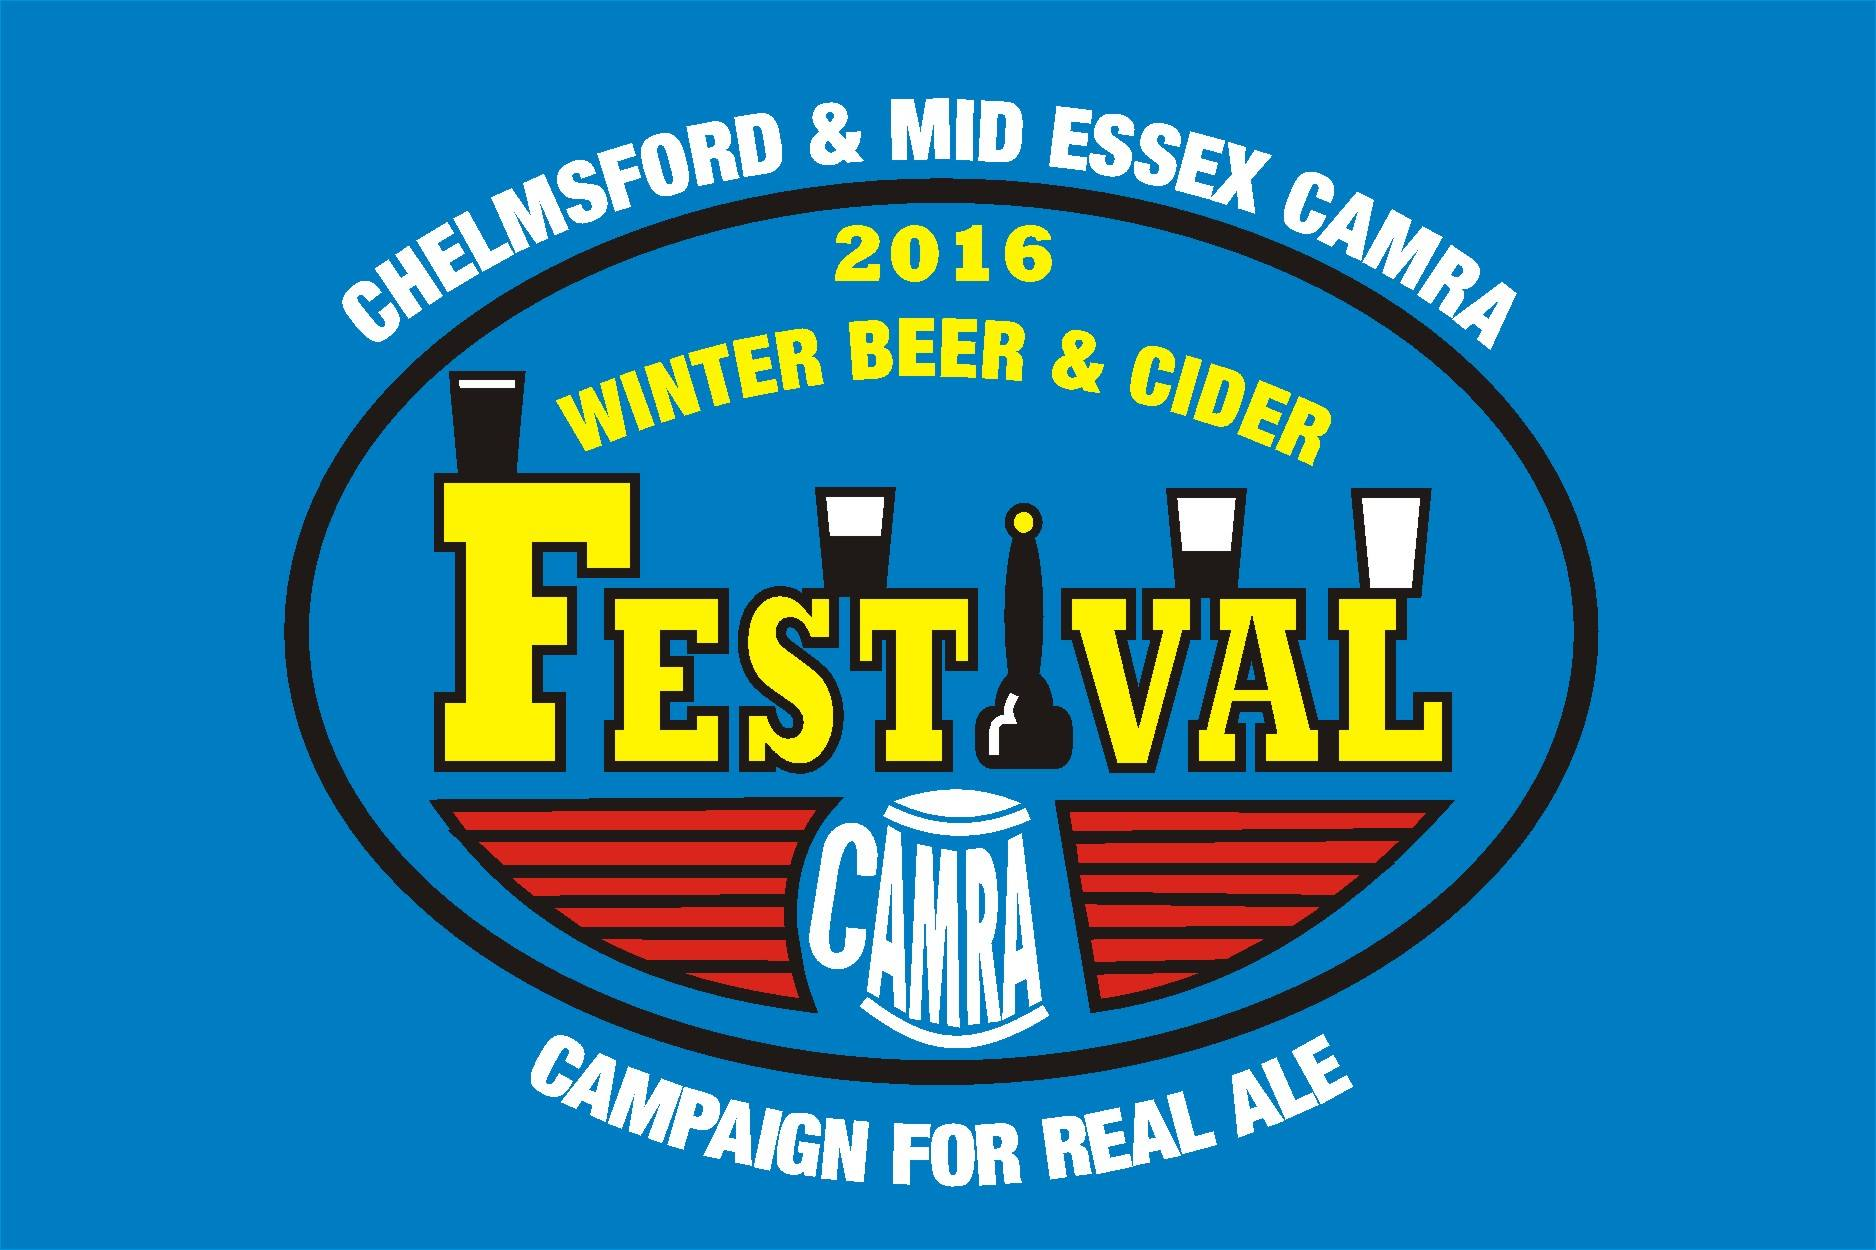
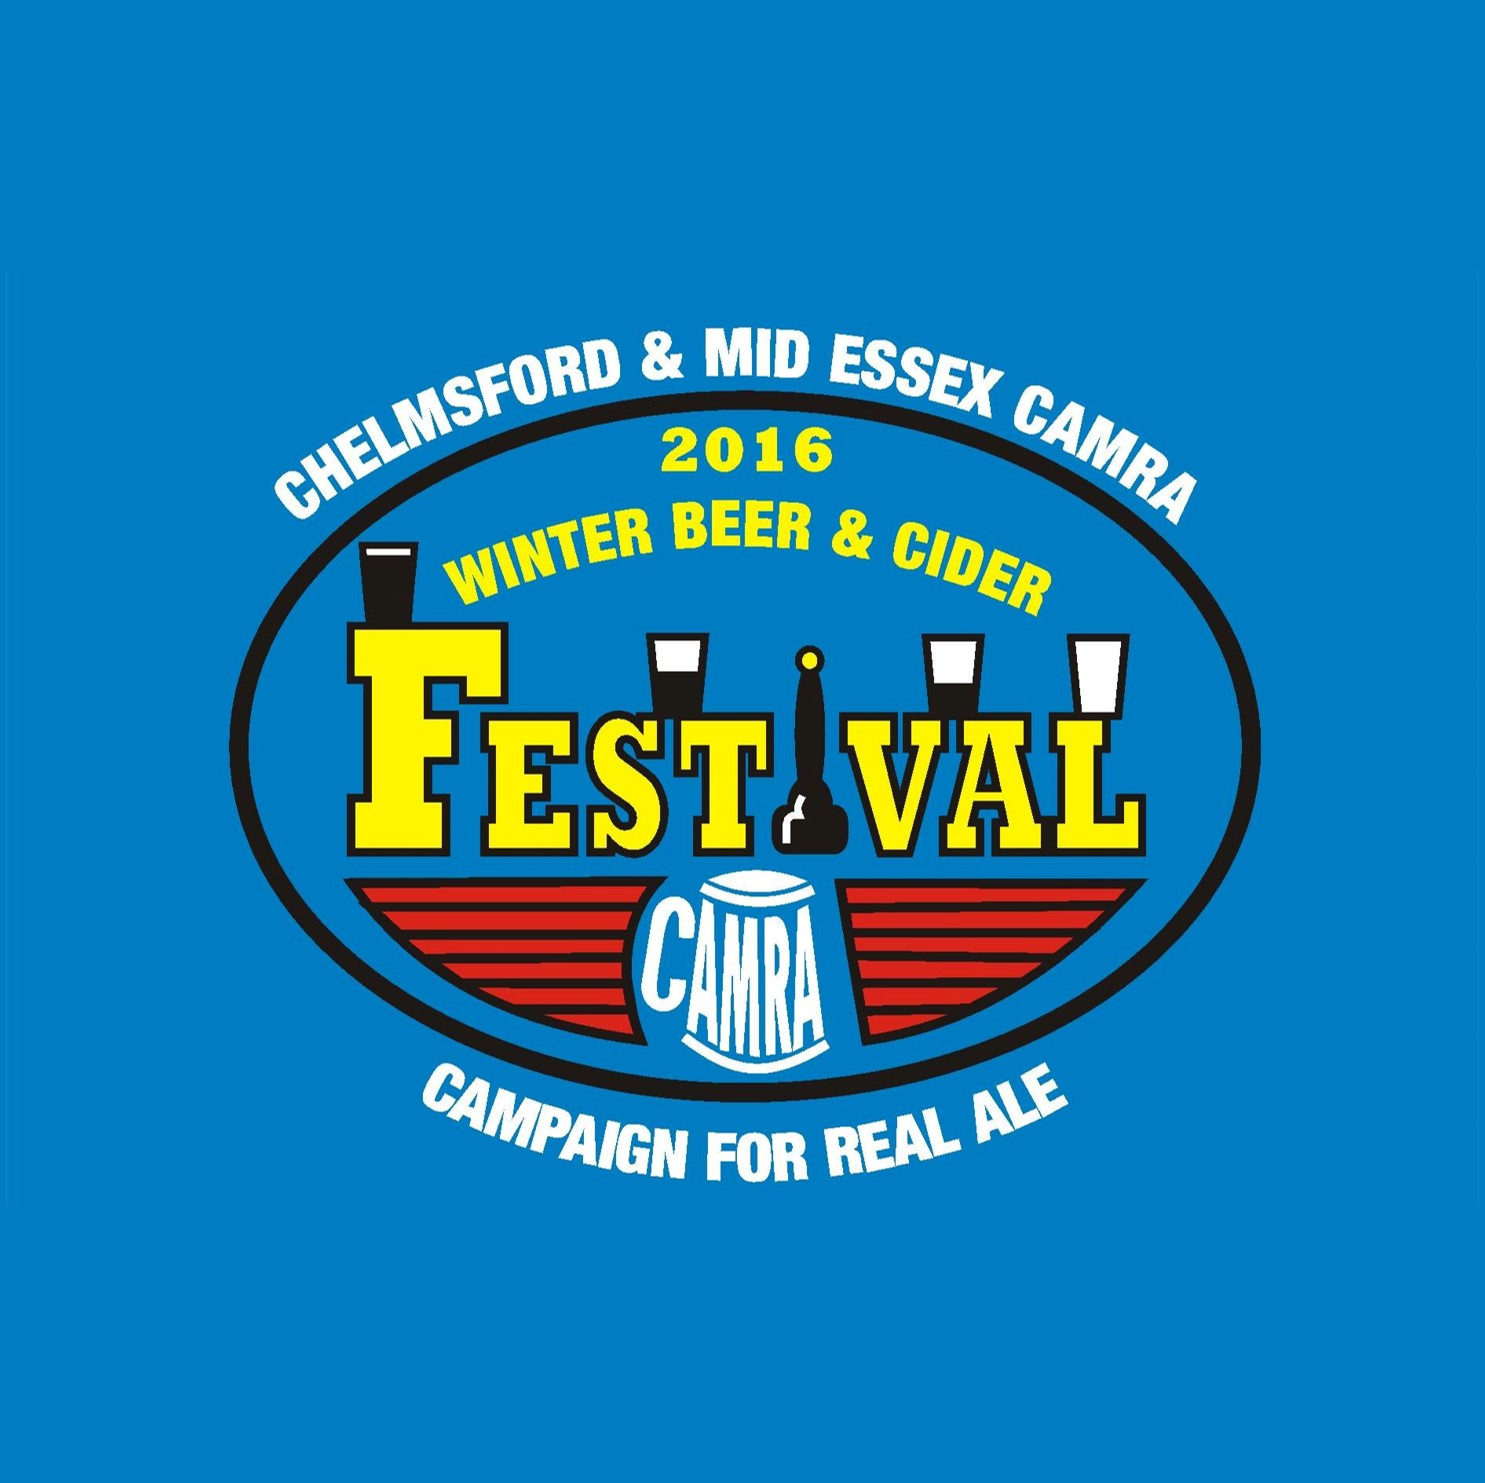
Archive updates
Frontend updated on Archive - logos adjusted so they are all the same size.

Minor tweaks to homepage.

Changed region(s): [[0.1239, 0.0624, 0.8673, 0.9672], [0.5266, 0.4056, 0.5576, 0.468]]

diff --git a/home.html b/home.html
@@ -14,7 +14,7 @@
   <meta property="og:url" content="https://cbcf.info/home">
 
   <!-- Font Awesome -->
-	<link rel="stylesheet" href="https://pro.fontawesome.com/releases/v5.5.0/css/all.css" integrity="sha384-j8y0ITrvFafF4EkV1mPW0BKm6dp3c+J9Fky22Man50Ofxo2wNe5pT1oZejDH9/Dt" crossorigin="anonymous">
+  <link rel="stylesheet" href="https://pro.fontawesome.com/releases/v5.5.0/css/all.css" integrity="sha384-j8y0ITrvFafF4EkV1mPW0BKm6dp3c+J9Fky22Man50Ofxo2wNe5pT1oZejDH9/Dt" crossorigin="anonymous">
 
   <!-- Bootstrap core CSS -->
   <link href="./css/bootstrap.css" rel="stylesheet">
@@ -177,7 +177,8 @@
             <hr>
             <li class="nav-item">
               <a class="nav-link hoverable d-none d-lg-block" href="//www.facebook.com/chelmsfordbeer" rel="nofollow"><i class="fab fa-facebook-square" aria-hidden="true"></i><span class="sr-only">Chelmsford Beer and Cider Festivals Facebook page</span></a>
-              <a class="nav-link hoverable d-block d-lg-none" href="//www.facebook.com/chelmsfordbeer" rel="nofollow"><i class="fab fa-facebook-square fa-2x" aria-hidden="true"></i><span class="sr-only">Chelmsford Beer and Cider Festivals Facebook page</span></a>
+              <a class="nav-link hoverable d-block d-lg-none" href="//www.facebook.com/chelmsfordbeer" rel="nofollow"><i class="fab fa-facebook-square fa-2x" aria-hidden="true"></i><span class="sr-only">Chelmsford Beer and Cider Festivals Facebook
+                  page</span></a>
             </li>
             <li class="nav-item">
               <a class="nav-link hoverable d-none d-lg-block" href="//twitter.com/chelmsfordbeer" rel="nofollow"><i class="fab fa-twitter" aria-hidden="true"></i><span class="sr-only">Chelmsford Beer and Cider Festivals Twitter page</span></a>
@@ -188,12 +189,16 @@
               <a class="nav-link hoverable d-block d-lg-none" href="//www.instagram.com/chelmsfordbeer" rel="nofollow"><i class="fab fa-instagram fa-2x" aria-hidden="true"></i><span class="sr-only">Chelmsford Beer and Cider Festivals Facebook page</span></a>
             </li>
             <li class="nav-item">
-              <a class="nav-link hoverable d-none d-lg-block" href="//www.snapchat.com/add/chelmsfordbeer" rel="nofollow"><i class="fab fa-snapchat-ghost" aria-hidden="true"></i><span class="sr-only">Chelmsford Beer and Cider Festivals Snapchat account</span></a>
-              <a class="nav-link hoverable d-block d-lg-none" href="//www.snapchat.com/add/chelmsfordbeer" rel="nofollow"><i class="fab fa-snapchat-ghost fa-2x" aria-hidden="true"></i><span class="sr-only">Chelmsford Beer and Cider Festivals Snapchat account</span></a>
+              <a class="nav-link hoverable d-none d-lg-block" href="//www.snapchat.com/add/chelmsfordbeer" rel="nofollow"><i class="fab fa-snapchat-ghost" aria-hidden="true"></i><span class="sr-only">Chelmsford Beer and Cider Festivals Snapchat
+                  account</span></a>
+              <a class="nav-link hoverable d-block d-lg-none" href="//www.snapchat.com/add/chelmsfordbeer" rel="nofollow"><i class="fab fa-snapchat-ghost fa-2x" aria-hidden="true"></i><span class="sr-only">Chelmsford Beer and Cider Festivals
+                  Snapchat account</span></a>
             </li>
             <li class="nav-item">
-              <a class="nav-link hoverable d-none d-lg-block" href="//www.youtube.com/channel/UCzacYKZgrWy-5LvzYar7eMw" rel="nofollow"><i class="fab fa-youtube" aria-hidden="true"></i><span class="sr-only">Chelmsford Beer and Cider Festivals YouTube channel</span></a>
-              <a class="nav-link hoverable d-block d-lg-none" href="//www.youtube.com/channel/UCzacYKZgrWy-5LvzYar7eMw" rel="nofollow"><i class="fab fa-youtube fa-2x" aria-hidden="true"></i><span class="sr-only">Chelmsford Beer and Cider Festivals YouTube channel</span></a>
+              <a class="nav-link hoverable d-none d-lg-block" href="//www.youtube.com/channel/UCzacYKZgrWy-5LvzYar7eMw" rel="nofollow"><i class="fab fa-youtube" aria-hidden="true"></i><span class="sr-only">Chelmsford Beer and Cider Festivals YouTube
+                  channel</span></a>
+              <a class="nav-link hoverable d-block d-lg-none" href="//www.youtube.com/channel/UCzacYKZgrWy-5LvzYar7eMw" rel="nofollow"><i class="fab fa-youtube fa-2x" aria-hidden="true"></i><span class="sr-only">Chelmsford Beer and Cider Festivals
+                  YouTube channel</span></a>
             </li>
           </ul>
         </div>
@@ -217,11 +222,11 @@
             </li>
             <li class="cbcf-normal">
               <h2 class="mt-4 mb-5 wow bounceIn font-bold" data-wow-delay="0.5s">Chelmsford Winter Beer &amp; Cider Festival 2019</h2>
-              <h4 class="mt-4 mb-5 wow fadeInUp" data-wow-delay="0.8s">20th to 23rd Feburary 2019</h4>
+              <h4 class="mt-4 mb-5 wow fadeInUp" data-wow-delay="0.8s">20th to 23rd February 2019</h4>
             </li>
             <li class="cbcf-sm">
               <h4 class="mt-4 mb-5 wow fadeInDown font-bold" data-wow-delay="0.5s">Chelmsford Winter Beer &amp; Cider Festival 2019</h4>
-              <h6 class="mt-4 mb-5 wow fadeInUp" data-wow-delay="0.8s">20th to 23rd Feburary 2019</h6>
+              <h6 class="mt-4 mb-5 wow fadeInUp" data-wow-delay="0.8s">20th to 23rd February 2019</h6>
             </li>
             <li>
               <a href="#details" class="btn btn-indigo btn-lg wow fadeInLeft hoverable" data-wow-delay="1.2s"><i class="far fa-arrow-circle-down" aria-hidden="true"></i>&nbsp; More details</a>
@@ -262,44 +267,35 @@
           <!--Grid column-->
           <div class="col-md-6 mb-4">
 
-            <!--Main heading (desktop)-->
-            <div class="d-none d-lg-block">
+            <!--Main heading-->
+            <div style="text-align: center;">
               <h3 class="h3 mb-3">Chelmsford Winter Beer &amp; Cider Festival 2019</h3>
-              <h4>Wednesday 20th Feburary to Saturday 23rd Feburary</h4>
+              <h4>Wednesday 20th February to Saturday 23rd February</h4>
               <h5>12 noon - 11pm each day</h5>
               <p>King Edward VI Grammar School (KEGS), Broomfield Road, CM1 3SX</p>
             </div>
-            <!--Main heading (desktop)-->
-
-            <!--Main heading (mobile)-->
-            <div class="d-block d-lg-none" style="text-align: center;">
-              <h3 class="h3 mb-3">Chelmsford Winter Beer &amp; Cider Festival 2019</h3>
-              <h4>Wednesday 20th Feburary to Saturday 23rd Feburary</h4>
-              <h5>12 noon - 11pm each day</h5>
-              <p>King Edward VI Grammar School (KEGS), Broomfield Road, CM1 3SX</p>
-            </div>
-            <!--Main heading (mobile)-->
+            <!--Main heading-->
 
             <hr>
 
-            <p>
-              <strong>170+</strong> Real Ales<br>
-              <strong>50+</strong> Real Ciders, Perries &amp; Pyders<br>
-              <strong>Hot &amp; cold food</strong> and soft drinks available at all times
-            </p>
+            <ul>
+              <li><strong>170+</strong> Real Ales<br></li>
+              <li><strong>50+</strong> Real Ciders, Perries &amp; Pyders<br></li>
+              <li><strong>Hot &amp; cold food</strong> and soft drinks available at all times</li>
+            </ul>
 
             <!-- CTA -->
             <center>
-              <a href="./drinks" class="btn btn-cbcf-purple">Drinks List
+              <a href="./drinks" class="btn btn-indigo">Drinks List
                 <i class="far fa-beer ml-1" aria-hidden="true"></i>
               </a>
-              <a href="#food" class="btn btn-cbcf-purple">Food &amp; Snacks
+              <a href="#food" class="btn btn-indigo">Food &amp; Snacks
                 <i class="far fa-utensils ml-1" aria-hidden="true"></i>
               </a>
-              <a href="./travel" class="btn btn-cbcf-purple">Travel Info
+              <a href="./travel" class="btn btn-indigo">Travel Info
                 <i class="far fa-map ml-1" aria-hidden="true"></i>
               </a>
-              <a href="./faqs" class="btn btn-cbcf-purple">FAQs
+              <a href="./faqs" class="btn btn-indigo">FAQs
                 <i class="far fa-question ml-1" aria-hidden="true"></i>
               </a>
             </center>
@@ -540,8 +536,8 @@
         <h4 class="mt-4 mb-5 text-center">Think there's something missing from this page?</h4>
 
         <center>
-          <a href="./faqs" class="btn btn-cbcf-purple btn-lg hoverable" rel="nofollow"><i class="far fa-arrow-circle-right" aria-hidden="true"></i>&nbsp; Check our FAQs</a>
-          <a href="./contact" class="btn btn-cbcf-purple btn-lg hoverable" rel="nofollow"><i class="far fa-envelope" aria-hidden="true"></i>&nbsp; Contact Us</a>
+          <a href="./faqs" class="btn btn-indigo btn-lg hoverable" rel="nofollow"><i class="far fa-arrow-circle-right" aria-hidden="true"></i>&nbsp; Check our FAQs</a>
+          <a href="./contact" class="btn btn-deep-purple btn-lg hoverable" rel="nofollow"><i class="far fa-envelope" aria-hidden="true"></i>&nbsp; Contact Us</a>
         </center>
 
         <br>

diff --git a/archive.html b/archive.html
@@ -338,6 +338,39 @@
 						<div class="view overlay hm-white-slight">
 							<center>
 								<picture>
+									<source srcset="./img/archive/2017-w.webp" type="image/webp">
+									<source srcset="./img/archive/2017-w.jpg" type="image/jpeg">
+									<img class="img-fluid" src="./img/archive/2017-w.jpg" alt="Winter Festival 2017">
+								</picture>
+							</center>
+							<a href="./2017/winter">
+								<div class="mask"></div>
+							</a>
+						</div>
+
+						<!--Card content-->
+						<div class="card-body">
+							<!--Title-->
+							<h4 class="card-title text-center">Winter Festival 2017</h4>
+							<center>
+								<a href="./2017/winter" class="btn btn-primary">View photos</a>
+							</center>
+						</div>
+
+					</div>
+					<!--/.Card-->
+				</div>
+				<!--Fourth columnn-->
+				<!--Fifth columnn-->
+				<div class="col-sm-4 mb-r">
+
+					<!--Card-->
+					<div class="card hoverable wow fadeIn">
+
+						<!--Card image-->
+						<div class="view overlay hm-white-slight">
+							<center>
+								<picture>
 									<source srcset="./img/archive/2016-s.webp" type="image/webp">
 									<source srcset="./img/archive/2016-s.jpg" type="image/jpeg">
 									<img class="img-fluid" src="./img/archive/2016-s.jpg" alt="Summer Festival 2016">
@@ -360,9 +393,9 @@
 					</div>
 					<!--/.Card-->
 				</div>
-				<!--Fourth columnn-->
-
 				<!--Fifth columnn-->
+
+				<!--Sixth columnn-->
 				<div class="col-sm-4 mb-r">
 
 					<!--Card-->
@@ -392,7 +425,207 @@
 					</div>
 					<!--/.Card-->
 				</div>
-				<!--Fifth columnn-->
+				<!--Sixth columnn-->
+			</div>
+			<div class="row align-items-center">
+				<!--Seventh columnn-->
+				<div class="col-sm-4 mb-r">
+
+					<!--Card-->
+					<div class="card hoverable wow fadeIn">
+
+						<!--Card image-->
+						<div class="view overlay hm-white-slight">
+							<center>
+								<picture>
+									<source srcset="./img/archive/2015-s.webp" type="image/webp">
+									<source srcset="./img/archive/2015-s.jpg" type="image/jpeg">
+									<img class="img-fluid" src="./img/archive/2015-s.jpg" alt="Summer Festival 2015">
+								</picture>
+							</center>
+							<a href="./2015/summer">
+								<div class="mask"></div>
+							</a>
+						</div>
+
+						<!--Card content-->
+						<div class="card-body">
+							<!--Title-->
+							<h4 class="card-title text-center">Summer Festival 2015</h4>
+							<center>
+								<a href="./2015/summer" class="btn btn-primary">View photos</a>
+							</center>
+						</div>
+
+					</div>
+					<!--/.Card-->
+				</div>
+				<!--Seventh columnn-->
+				<!--Eighth columnn-->
+				<div class="col-sm-4 mb-r">
+
+					<!--Card-->
+					<div class="card hoverable wow fadeIn">
+
+						<!--Card image-->
+						<div class="view overlay hm-white-slight">
+							<center>
+								<picture>
+									<source srcset="./img/archive/2015-w.webp" type="image/webp">
+									<source srcset="./img/archive/2015-w.jpg" type="image/jpeg">
+									<img class="img-fluid" src="./img/archive/2015-w.jpg" alt="Winter Festival 2015">
+								</picture>
+							</center>
+							<a href="./2015/winter">
+								<div class="mask"></div>
+							</a>
+						</div>
+
+						<!--Card content-->
+						<div class="card-body">
+							<!--Title-->
+							<h4 class="card-title text-center">Winter Festival 2015</h4>
+							<center>
+								<a href="./2015/winter" class="btn btn-primary">View photos</a>
+							</center>
+						</div>
+
+					</div>
+					<!--/.Card-->
+				</div>
+				<!--Eighth columnn-->
+
+				<!--Ninth columnn-->
+				<div class="col-sm-4 mb-r">
+
+					<!--Card-->
+					<div class="card hoverable wow fadeIn">
+
+						<!--Card image-->
+						<div class="view overlay hm-white-slight">
+							<picture>
+								<source srcset="./img/archive/2014-s.webp" type="image/webp">
+								<source srcset="./img/archive/2014-s.jpg" type="image/jpeg">
+								<img class="img-fluid" src="./img/archive/2014-s.jpg" alt="Summer Festival 2014">
+							</picture>
+							<a href="./2014/summer">
+								<div class="mask"></div>
+							</a>
+						</div>
+
+						<!--Card content-->
+						<div class="card-body">
+							<!--Title-->
+							<h4 class="card-title text-center">Summer Festival 2014</h4>
+							<center>
+								<a href="./2014/summer" class="btn btn-primary">View photos</a>
+							</center>
+						</div>
+
+					</div>
+					<!--/.Card-->
+				</div>
+				<!--Ninth columnn-->
+			</div>
+			<div class="row align-items-center">
+				<!--Tenth columnn-->
+				<div class="col-sm-4 mb-r">
+
+					<!--Card-->
+					<div class="card hoverable wow fadeIn">
+
+						<!--Card image-->
+						<div class="view overlay hm-white-slight">
+							<center>
+								<picture>
+									<source srcset="./img/archive/2014-w.webp" type="image/webp">
+									<source srcset="./img/archive/2014-w.jpg" type="image/jpeg">
+									<img class="img-fluid" src="./img/archive/2014-w.jpg" alt="Winter Festival 2014">
+								</picture>
+							</center>
+							<a href="./2014/winter">
+								<div class="mask"></div>
+							</a>
+						</div>
+
+						<!--Card content-->
+						<div class="card-body">
+							<!--Title-->
+							<h4 class="card-title text-center">Winter Festival 2014</h4>
+							<center>
+								<a href="./2014/winter" class="btn btn-primary">View photos</a>
+							</center>
+						</div>
+
+					</div>
+					<!--/.Card-->
+				</div>
+				<!--Tenth columnn-->
+				<!--Eleventh columnn-->
+				<div class="col-sm-4 mb-r">
+
+					<!--Card-->
+					<div class="card hoverable wow fadeIn">
+
+						<!--Card image-->
+						<div class="view overlay hm-white-slight">
+							<center>
+								<picture>
+									<source srcset="./img/archive/2013-s.webp" type="image/webp">
+									<source srcset="./img/archive/2013-s.jpg" type="image/jpeg">
+									<img class="img-fluid" src="./img/archive/2013-s.jpg" alt="Summer Festival 2013">
+								</picture>
+							</center>
+							<a href="./2013/summer">
+								<div class="mask"></div>
+							</a>
+						</div>
+
+						<!--Card content-->
+						<div class="card-body">
+							<!--Title-->
+							<h4 class="card-title text-center">Summer Festival 2013</h4>
+							<center>
+								<a href="./2013/summer" class="btn btn-primary">View photos</a>
+							</center>
+						</div>
+
+					</div>
+					<!--/.Card-->
+				</div>
+				<!--Eleventh columnn-->
+
+				<!--Twelfth columnn-->
+				<div class="col-sm-4 mb-r">
+
+					<!--Card-->
+					<div class="card hoverable wow fadeIn">
+
+						<!--Card image-->
+						<div class="view overlay hm-white-slight">
+							<picture>
+								<source srcset="./img/archive/2013-w.webp" type="image/webp">
+								<source srcset="./img/archive/2013-w.jpg" type="image/jpeg">
+								<img class="img-fluid" src="./img/archive/2013-w.jpg" alt="Winter Festival 2013">
+							</picture>
+							<a href="./2013/winter">
+								<div class="mask"></div>
+							</a>
+						</div>
+
+						<!--Card content-->
+						<div class="card-body">
+							<!--Title-->
+							<h4 class="card-title text-center">Winter Festival 2013</h4>
+							<center>
+								<a href="./2013/winter" class="btn btn-primary">View photos</a>
+							</center>
+						</div>
+
+					</div>
+					<!--/.Card-->
+				</div>
+				<!--Twelfth columnn-->
 			</div>
 		</section>
 		<!--/Section: Festival Selector -->
